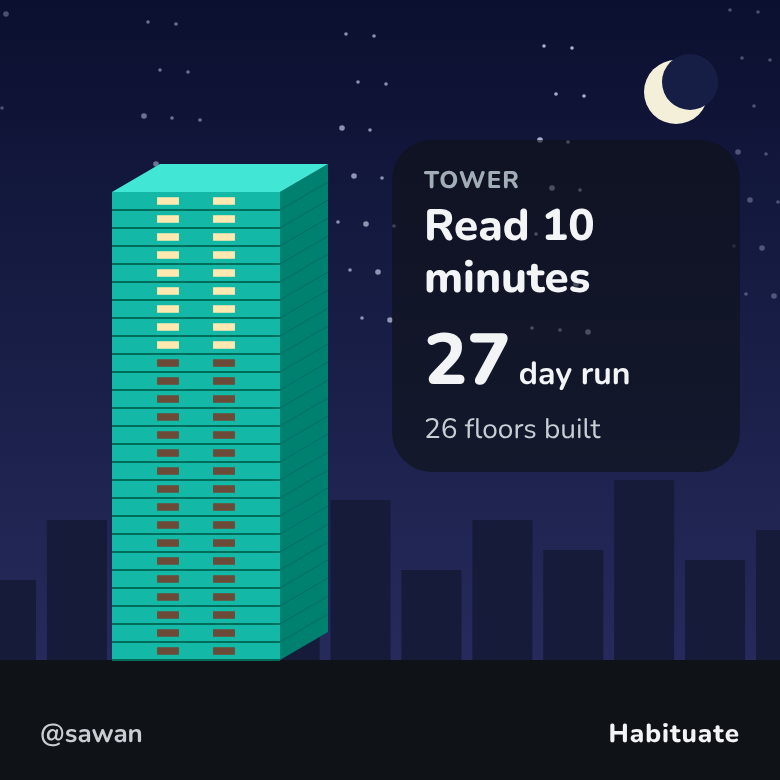
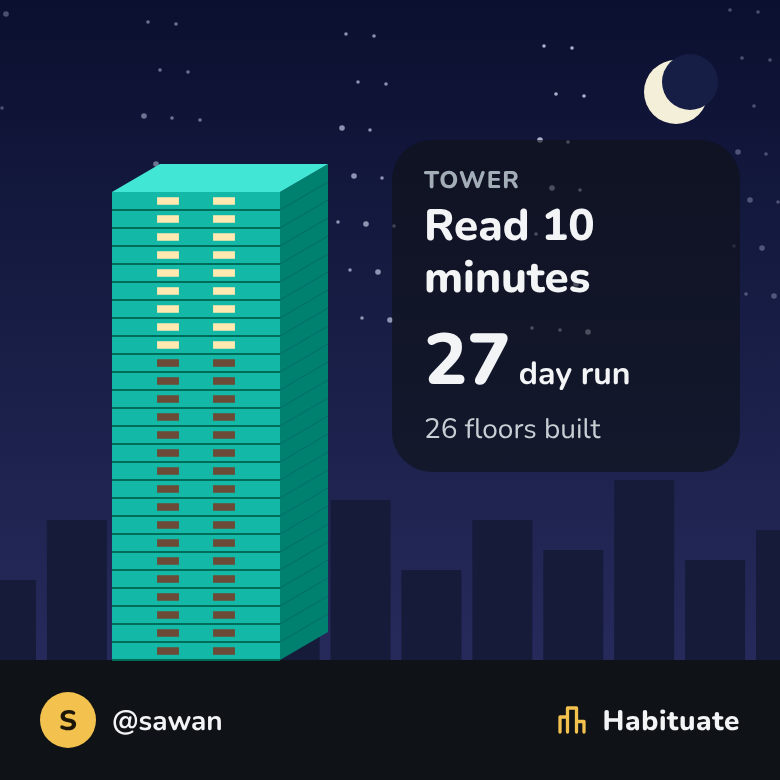
Share boards: richer footer, chip clear of towers
Claude-Session: https://claude.ai/code/session_01UvWD32uMFJU1E2B9jDYiLg

Changed region(s): [[0.0308, 0.8615, 0.2769, 0.9846], [0.7077, 0.8923, 0.9538, 0.9538]]

diff --git a/design/skyline/source/rd.js b/design/skyline/source/rd.js
@@ -76,17 +76,17 @@ const skyArt=(k,w,h,gy)=>{const c=SK[k];let o=`<defs><linearGradient id="s${k}${
  const hs=[40,70,50,95,60,80,45,70,55,90,50,65];for(let i=0;i<12;i++)o+=`<rect x="${i*(w/11)-12}" y="${gy-hs[i]}" width="30" height="${hs[i]}" fill="${c[2]}"/>`;
  return o+`<rect y="${gy}" width="${w}" height="${h-gy}" fill="${k==='day'?'#1D2A33':'#0F1216'}"/>`};
 const chip=(inner,extra='')=>`<div style="display:inline-block;background:rgba(15,18,22,.62);border-radius:20px;padding:12px 16px;${extra}">${inner}</div>`;
-const who=`<div style="font-size:13px;font-weight:700;color:#C9CED4">@sawan</div>`;
-const wm2=`<div style="font-size:13px;font-weight:800;letter-spacing:.5px;color:#F2F4F6">Habituate</div>`;
+const who=`<div style="display:flex;align-items:center;gap:8px"><i style="width:28px;height:28px;border-radius:14px;background:#F2C14E;color:#1b1608;font-size:14px;font-weight:800;display:flex;align-items:center;justify-content:center;font-style:normal">S</i><span style="font-size:14px;font-weight:700;color:#F2F4F6">@sawan</span></div>`;
+const wm2=`<div style="display:flex;align-items:center;gap:6px"><svg width="18" height="18" viewBox="0 0 24 24" fill="none" stroke="#F2C14E" stroke-width="2.2" stroke-linecap="round" stroke-linejoin="round"><path d="M4 20V10h5v10M9 20V4h6v16M15 20v-7h5v7"/></svg><span style="font-size:14px;font-weight:800;letter-spacing:.3px;color:#F2F4F6">Habituate</span></div>`;
 const TW=[['#14B8A6',30,9],['#FF8A5C',22,8],['#F2C14E',12,4],['#A78BFA',26,7]];
 const sq=(o={})=>{const k=o.k||'night',col=o.col||'#14B8A6',all=o.all;return `<div style="position:relative;width:390px;height:390px;overflow:hidden"><svg width="390" height="390" style="position:absolute;inset:0">${skyArt(k,390,390,330)}
  ${all?TW.map((t,i)=>tw(t[0],{x:28+i*58,base:330,w:40,fh:Math.min(5,125/t[1]),dx:12,dy:8,floors:fl(t[1],t[2]),windows:2,today:false})).join(''):tw(col,{x:56,base:330,w:84,fh:9,dx:24,dy:14,floors:fl(26,9),windows:2,today:false})}</svg>
  <div style="position:absolute;left:${all?24:196}px;top:${all?40:70}px;right:20px">${chip(`<div style="font-size:12px;font-weight:800;letter-spacing:.5px;color:#A3ADB8">${all?'SKYLINE':'TOWER'}</div><div style="font-size:22px;font-weight:800;line-height:1.2;margin-top:2px">${all?'4 towers standing':'Read 10 minutes'}</div><div style="margin-top:10px"><span style="font-size:36px;font-weight:800;line-height:1">${all?'27':'27'}</span> <span style="font-size:16px;font-weight:700">${all?'day best run':'day run'}</span></div><div style="font-size:14px;color:#C9CED4;margin-top:6px">${all?'63 floors built':'26 floors built'}</div>`)}</div>
- <div style="position:absolute;left:20px;right:20px;bottom:14px;display:flex;justify-content:space-between;align-items:center">${o.user===false?'<span></span>':who}${wm2}</div></div>`};
-const st=(o={})=>{const k=o.k||'night',col=o.col||'#14B8A6',all=o.all;return `<div style="position:relative;width:390px;height:694px;overflow:hidden"><svg width="390" height="694" style="position:absolute;inset:0">${skyArt(k,390,694,500)}
- ${o.n===0?'<path d="M130,500h110l26,-15h-110Z" fill="none" stroke="#7A86A8" stroke-width="1.6" stroke-dasharray="5 4"/>':all?TW.map((t,i)=>tw(t[0],{x:34+i*84,base:500,w:56,fh:Math.min(8,190/t[1]),dx:16,dy:10,floors:fl(t[1],t[2]),windows:2,today:false})).join(''):tw(col,{x:150,base:500,w:90,fh:8,dx:26,dy:16,floors:fl(o.n??30,Math.min(9,o.n??30)),windows:2,today:false})}</svg>
+ <div style="position:absolute;left:20px;right:20px;top:345px;height:30px;display:flex;justify-content:space-between;align-items:center">${o.user===false?'<span></span>':who}${wm2}</div></div>`};
+const st=(o={})=>{const k=o.k||'night',col=o.col||'#14B8A6',all=o.all;return `<div style="position:relative;width:390px;height:694px;overflow:hidden"><svg width="390" height="694" style="position:absolute;inset:0">${skyArt(k,390,694,560)}
+ ${o.n===0?'<path d="M130,560h110l26,-15h-110Z" fill="none" stroke="#7A86A8" stroke-width="1.6" stroke-dasharray="5 4"/>':all?TW.map((t,i)=>tw(t[0],{x:34+i*84,base:560,w:56,fh:Math.min(8,190/t[1]),dx:16,dy:10,floors:fl(t[1],t[2]),windows:2,today:false})).join(''):tw(col,{x:150,base:560,w:90,fh:7,dx:26,dy:15,floors:fl(o.n??30,Math.min(9,o.n??30)),windows:2,today:false})}</svg>
  <div style="position:absolute;left:0;right:0;top:${o.tx??96}px;text-align:center;opacity:${o.t??1}">${chip(`<div style="font-size:12px;font-weight:800;letter-spacing:.5px;color:#A3ADB8">${all?'SKYLINE':'TOWER'}</div><div style="font-size:28px;font-weight:800;line-height:1.15;margin-top:2px">${all?'4 towers standing':'Read 10 minutes'}</div><div style="margin-top:12px"><span style="font-size:36px;font-weight:800">27</span> <span style="font-size:16px;font-weight:700">${all?'day best run':'day run'}</span></div>`,'min-width:230px')}</div>
- <div style="position:absolute;left:20px;right:20px;bottom:130px;opacity:${o.t??1};display:flex;justify-content:space-between;align-items:center">${who}${wm2}</div></div>`};
+ <div style="position:absolute;left:20px;right:20px;top:584px;height:30px;opacity:${o.t??1};display:flex;justify-content:space-between;align-items:center">${who}${wm2}</div></div>`};
 const wrap=(w,h,html)=>{document.body.style.width=w+'px';document.body.style.height=h+'px';R.innerHTML=`<div style="position:absolute;inset:0">${html}</div>`};
 if(S==='rd-sh1')wrap(390,390,sq());
 if(S==='rd-sh2')wrap(390,694,st());

diff --git a/design/skyline/README.md b/design/skyline/README.md
@@ -114,7 +114,7 @@ This is the only folder of Skyline mockups. The old `concept _screens/` folder w
 On `main`, boards 74, 75, 76, 77 and 78 (`74-tower-sheet-repair-run.png`, `75-tower-sheet-run-repaired.png`, `76-tower-sheet-log-amount.png`, `77-tower-sheet-log-amount-with-unit.png`, `78-create-form-amount-unit.png`) are the current versions: 76 is unitless, 77 and 78 carry the optional unit, and all five were re-rendered to the design system on 2026-11-21. If another branch has different PNGs at these paths, keep main's. The owner's own sign-off on the merge resolution is still needed.
 
 
-## Share (PROPOSAL v2 2026-11-24, owner feedback applied, awaiting final approval)
+## Share (owner said "everything looks good" 2026-11-24 with two fixes, now applied: richer footer with avatar, and the text chip never overlaps the towers; final look to be confirmed by the owner)
 Opened from the tower sheet and from a Share entry for the whole skyline. The card shows the habit name (or "4 towers standing" for the skyline), run length, floors built, the tower or towers in the habit colour on the user's own sky (same sky and weather rules as the Skyline tab), the @username (a switch in the share sheet) and a small Habituate wordmark. Text sits on a dark chip so it never overlaps the art or the sky. No check-in dates; no open or missed floors are drawn.
 | Board | File | Notes |
 |---|---|---|
